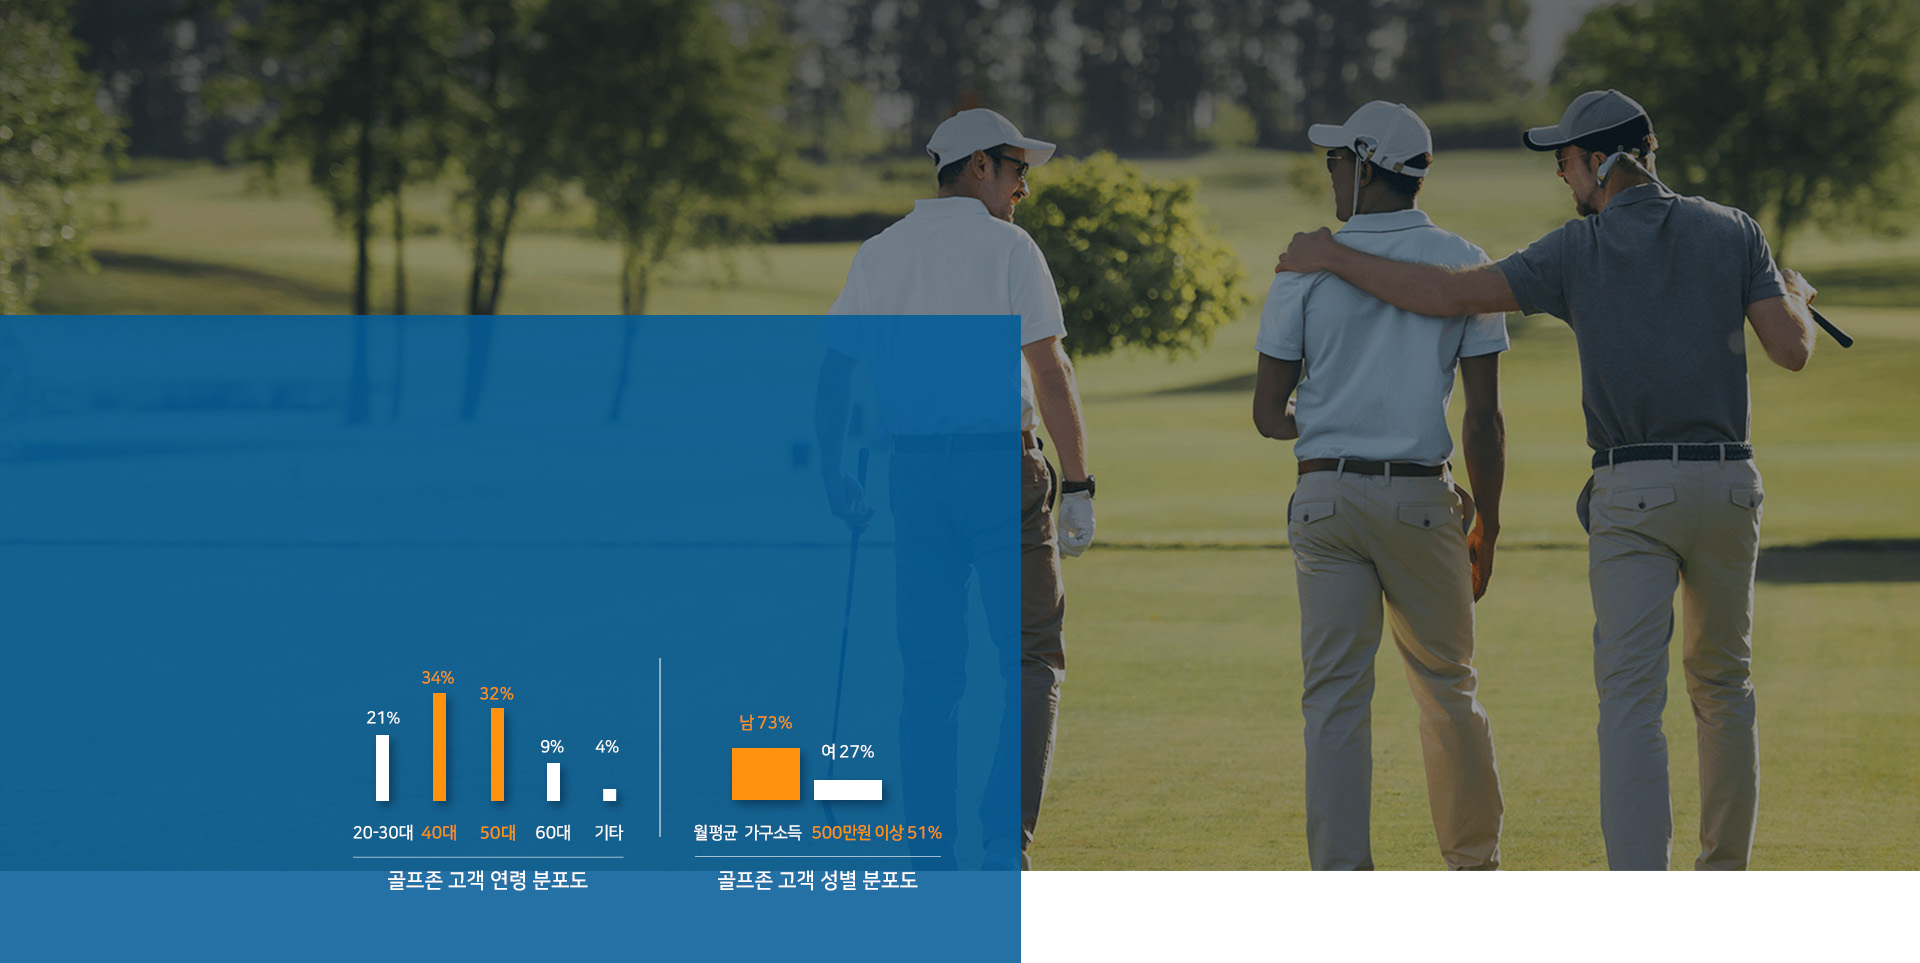
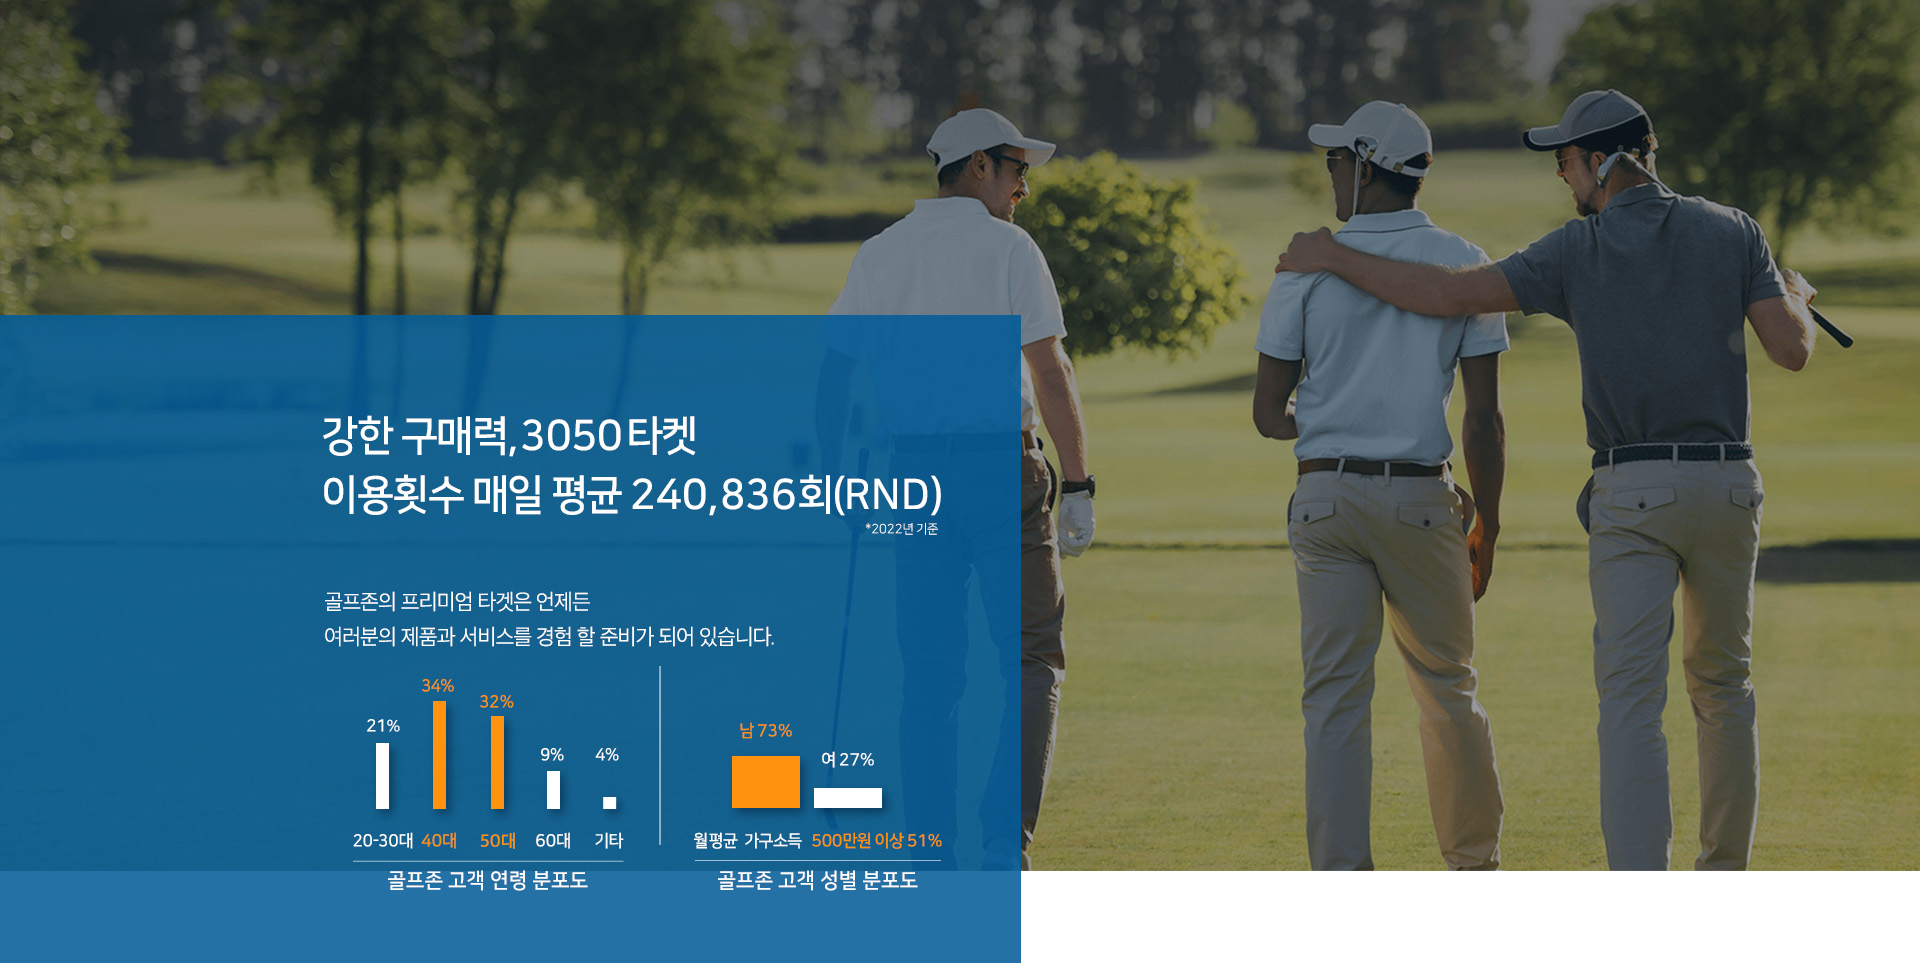
.

diff --git a/main.html b/main.html
@@ -104,7 +104,7 @@
                             <p>골프존 인프라는 여러분의 광고를<br />보다 빠르고 효과적으로 확산시켜드립니다.</p>
                         </div>
                       </div>
-                      <div class="swiper-slide mt_img" style="background-image:url('images/main/nature-22.jpg?ver=4');background-repeat:no-repeat;background-size:cover;width:100%;height:963px;">
+                      <div class="swiper-slide mt_img" style="background-image:url('images/main/nature-22.jpg?ver=5');background-repeat:no-repeat;background-size:cover;width:100%;height:963px;">
                         <div class="mt_img_text">
                             <p style="margin-top: 90px">강한 구매력, 3050 타겟<br />이용횟수 매일 240,836회(RND)<br><em style="font-size: 14px;line-height: 20px;">*2022년 기준</em></p>
                             <p style="margin-top: 10px"></p>
